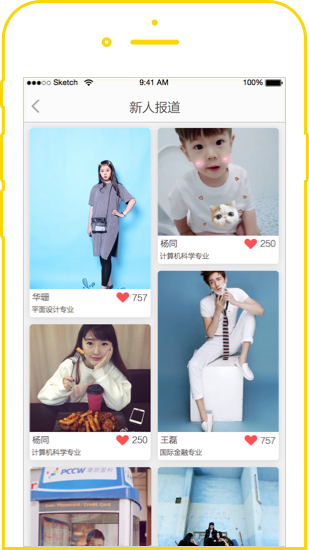
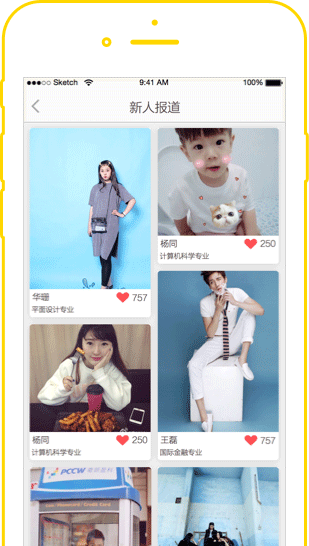
修改首页

diff --git a/public/css/style.min.css b/public/css/style.min.css
@@ -1,1 +1,1 @@
-body{margin:0}header{background-color:#fbd600;padding:10px;height:700px;position:relative;}header .nav{width:400px;text-align:center;margin:0 auto;}header .nav:before{content:"";display:table}header .nav:after{content:"";display:table;clear:both}header .nav li{list-style:none;float:left;width:99px;border-right:1px solid #000;}header .nav li a{text-decoration:none;color:#000}header .nav li:last-child{width:100px;border-right:none}header .img{position:absolute;}header .img.phone{bottom:0;left:50%}header .img.logo{left:25%;top:10%;animation:left2right3 1s;-moz-animation:left2right3 1s;-webkit-animation:left2right3 1s;-o-animation:left2right3 1s}header .img.slogan{left:25%;top:35%;animation:left2right3 1s;-moz-animation:left2right3 1s;-webkit-animation:left2right3 1s;-o-animation:left2right3 1s}header .download{position:absolute;left:25%;bottom:20px;width:320px;height:125px;animation:bottom2top 1s;-moz-animation:bottom2top 1s;-webkit-animation:bottom2top 1s;-o-animation:bottom2top 1s;}header .download .qrcode{width:125px;height:125px}header .download .ios,header .download .android{width:180px;height:50px}header .download .ios{position:absolute;left:140px;top:0}header .download .android{position:absolute;left:140px;top:75px}footer{background-color:#fbd600;padding:30px 10px;text-align:center;}footer p{font-size:12px}footer .nav{width:400px;margin:0 auto;}footer .nav:before{content:"";display:table}footer .nav:after{content:"";display:table;clear:both}footer .nav li{list-style:none;float:left;width:99px;border-right:1px solid #000;}footer .nav li a{text-decoration:none;color:#000}footer .nav li:last-child{width:100px;border-right:none}.container >section{text-align:center;}.container >section h1{font-size:32px}.container >section p{font-size:22px}.container >section ul{width:300px;line-height:20px;margin:0 auto;font-size:18px;text-align:left;margin-bottom:30px;color:#fbd600;}.container >section ul li .content{font-size:12px;color:#000}.container >section.new_student img.img{width:20%;}.container >section.new_student img.img.left{position:relative;bottom:90px;left:15px;animation:left2right 1s;-moz-animation:left2right 1s;-webkit-animation:left2right 1s;-o-animation:left2right 1s}.container >section.new_student img.img.right{position:relative;bottom:70px;right:25px;animation:right2left 1s;-moz-animation:right2left 1s;-webkit-animation:right2left 1s;-o-animation:right2left 1s}.container >section.team{position:relative;}.container >section.team img.img{position:absolute;}.container >section.team img.img.left1{top:160px;left:50%;margin-left:-550px;animation:left2right2 1s;-moz-animation:left2right2 1s;-webkit-animation:left2right2 1s;-o-animation:left2right2 1s}.container >section.team img.img.left2{top:247px;left:50%;margin-left:-543px;animation:scalebig 1s;-moz-animation:scalebig 1s;-webkit-animation:scalebig 1s;-o-animation:scalebig 1s}.container >section.team img.img.right1{top:400px;right:50%;margin-right:-570px;animation:right2left2 1s;-moz-animation:right2left2 1s;-webkit-animation:right2left2 1s;-o-animation:right2left2 1s}.container >section.team img.img.right2{top:450px;right:50%;margin-right:-430px;animation:scalebig 1s;-moz-animation:scalebig 1s;-webkit-animation:scalebig 1s;-o-animation:scalebig 1s}.container >section.rank{position:relative;}.container >section.rank img.center1{position:absolute;left:50%;margin-left:-294px;top:160px;animation:rotate 1s;-moz-animation:rotate 1s;-webkit-animation:rotate 1s;-o-animation:rotate 1s}.container >section.question img.img{width:20%;}.container >section.question img.img.left{position:relative;bottom:100px;right:30px;animation:right2left 1s;-moz-animation:right2left 1s;-webkit-animation:right2left 1s;-o-animation:right2left 1s}.container >section.question img.img.right{position:relative;bottom:100px;left:30px;animation:left2right 1s;-moz-animation:left2right 1s;-webkit-animation:left2right 1s;-o-animation:left2right 1s}@-moz-keyframes bottom2top{from{bottom:-100px}to{bottom:20px}}@-webkit-keyframes bottom2top{from{bottom:-100px}to{bottom:20px}}@-o-keyframes bottom2top{from{bottom:-100px}to{bottom:20px}}@keyframes bottom2top{from{bottom:-100px}to{bottom:20px}}@-moz-keyframes left2right{from{left:-400px}to{left:15px}}@-webkit-keyframes left2right{from{left:-400px}to{left:15px}}@-o-keyframes left2right{from{left:-400px}to{left:15px}}@keyframes left2right{from{left:-400px}to{left:15px}}@-moz-keyframes right2left{from{right:-400px}to{right:25px}}@-webkit-keyframes right2left{from{right:-400px}to{right:25px}}@-o-keyframes right2left{from{right:-400px}to{right:25px}}@keyframes right2left{from{right:-400px}to{right:25px}}@-moz-keyframes left2right2{from{margin-left:-1000px}to{margin-left:-550px}}@-webkit-keyframes left2right2{from{margin-left:-1000px}to{margin-left:-550px}}@-o-keyframes left2right2{from{margin-left:-1000px}to{margin-left:-550px}}@keyframes left2right2{from{margin-left:-1000px}to{margin-left:-550px}}@-moz-keyframes right2left2{from{margin-right:-1000px}to{margin-right:-570px}}@-webkit-keyframes right2left2{from{margin-right:-1000px}to{margin-right:-570px}}@-o-keyframes right2left2{from{margin-right:-1000px}to{margin-right:-570px}}@keyframes right2left2{from{margin-right:-1000px}to{margin-right:-570px}}@-moz-keyframes left2right3{from{left:-10%}to{left:25%}}@-webkit-keyframes left2right3{from{left:-10%}to{left:25%}}@-o-keyframes left2right3{from{left:-10%}to{left:25%}}@keyframes left2right3{from{left:-10%}to{left:25%}}@-moz-keyframes rotate{from{transform:rotate(-30deg)}-ms-transform rotate(-30deg){-webkit-transform:rotate(-30deg);-o-transform:rotate(-30deg);-moz-transform:rotate(-30deg)}to{transform:rotate(0)}-ms-transform rotate(0){-webkit-transform:rotate(0);-o-transform:rotate(0);-moz-transform:rotate(0)}}@-webkit-keyframes rotate{from{transform:rotate(-30deg)}-ms-transform rotate(-30deg){-webkit-transform:rotate(-30deg);-o-transform:rotate(-30deg);-moz-transform:rotate(-30deg)}to{transform:rotate(0)}-ms-transform rotate(0){-webkit-transform:rotate(0);-o-transform:rotate(0);-moz-transform:rotate(0)}}@-o-keyframes rotate{from{transform:rotate(-30deg)}-ms-transform rotate(-30deg){-webkit-transform:rotate(-30deg);-o-transform:rotate(-30deg);-moz-transform:rotate(-30deg)}to{transform:rotate(0)}-ms-transform rotate(0){-webkit-transform:rotate(0);-o-transform:rotate(0);-moz-transform:rotate(0)}}@keyframes rotate{from{transform:rotate(-30deg)}-ms-transform rotate(-30deg){-webkit-transform:rotate(-30deg);-o-transform:rotate(-30deg);-moz-transform:rotate(-30deg)}to{transform:rotate(0)}-ms-transform rotate(0){-webkit-transform:rotate(0);-o-transform:rotate(0);-moz-transform:rotate(0)}}@-moz-keyframes scalebig{from{transform:scale(.1);-ms-transform:scale(.1);-webkit-transform:scale(.1);-o-transform:scale(.1);-moz-transform:scale(.1)}to{transform:scale(1);-ms-transform:scale(1);-webkit-transform:scale(1);-o-transform:scale(1);-moz-transform:scale(1)}}@-webkit-keyframes scalebig{from{transform:scale(.1);-ms-transform:scale(.1);-webkit-transform:scale(.1);-o-transform:scale(.1);-moz-transform:scale(.1)}to{transform:scale(1);-ms-transform:scale(1);-webkit-transform:scale(1);-o-transform:scale(1);-moz-transform:scale(1)}}@-o-keyframes scalebig{from{transform:scale(.1);-ms-transform:scale(.1);-webkit-transform:scale(.1);-o-transform:scale(.1);-moz-transform:scale(.1)}to{transform:scale(1);-ms-transform:scale(1);-webkit-transform:scale(1);-o-transform:scale(1);-moz-transform:scale(1)}}@keyframes scalebig{from{transform:scale(.1);-ms-transform:scale(.1);-webkit-transform:scale(.1);-o-transform:scale(.1);-moz-transform:scale(.1)}to{transform:scale(1);-ms-transform:scale(1);-webkit-transform:scale(1);-o-transform:scale(1);-moz-transform:scale(1)}}
+body{margin:0}header{background-color:#fbd600;padding:10px;height:700px;position:relative;}header .nav{width:400px;text-align:center;margin:0 auto;}header .nav:before{content:"";display:table}header .nav:after{content:"";display:table;clear:both}header .nav li{list-style:none;float:left;width:99px;border-right:1px solid #000;}header .nav li a{text-decoration:none;color:#000}header .nav li:last-child{width:100px;border-right:none}header .img{position:absolute;}header .img.phone{bottom:0;left:50%}header .img.logo{left:25%;top:10%;animation:left2right3 1s;-moz-animation:left2right3 1s;-webkit-animation:left2right3 1s;-o-animation:left2right3 1s}header .img.slogan{left:25%;top:35%;animation:left2right3 1s;-moz-animation:left2right3 1s;-webkit-animation:left2right3 1s;-o-animation:left2right3 1s}header .download{position:absolute;left:25%;bottom:20px;width:320px;height:125px;animation:bottom2top 1s;-moz-animation:bottom2top 1s;-webkit-animation:bottom2top 1s;-o-animation:bottom2top 1s;}header .download .qrcode{width:125px;height:125px}header .download .ios,header .download .android{width:180px;height:50px}header .download .ios{position:absolute;left:140px;top:0}header .download .android{position:absolute;left:140px;top:75px}footer{background-color:#fbd600;padding:30px 10px;text-align:center;}footer p{font-size:12px}footer .nav{width:400px;margin:0 auto;}footer .nav:before{content:"";display:table}footer .nav:after{content:"";display:table;clear:both}footer .nav li{list-style:none;float:left;width:99px;border-right:1px solid #000;}footer .nav li a{text-decoration:none;color:#000}footer .nav li:last-child{width:100px;border-right:none}.container >section{text-align:center;background:-webkit-linear-gradient(top,#fff,#fff 95%,#f8f8f8);background:-moz-linear-gradient(top,#fff,#fff 95%,#f8f8f8);background:-o-linear-gradient(top,#fff,#fff 95%,#f8f8f8);background:-ms-linear-gradient(top,#fff,#fff 95%,#f8f8f8);background:linear-gradient(to bottom,#fff,#fff 95%,#f8f8f8);}.container >section h1{font-size:32px}.container >section p{font-size:22px}.container >section ul{width:300px;line-height:20px;margin:0 auto;font-size:18px;text-align:left;margin-bottom:30px;color:#fbd600;}.container >section ul li .content{font-size:12px;color:#000}.container >section.new_student img.img{width:20%;}.container >section.new_student img.img.left{position:relative;bottom:90px;left:15px;animation:left2right 1s;-moz-animation:left2right 1s;-webkit-animation:left2right 1s;-o-animation:left2right 1s}.container >section.new_student img.img.right{position:relative;bottom:70px;right:25px;animation:right2left 1s;-moz-animation:right2left 1s;-webkit-animation:right2left 1s;-o-animation:right2left 1s}.container >section.team{position:relative;}.container >section.team img.img{position:absolute;}.container >section.team img.img.left1{top:160px;left:50%;margin-left:-550px;animation:left2right2 1s;-moz-animation:left2right2 1s;-webkit-animation:left2right2 1s;-o-animation:left2right2 1s}.container >section.team img.img.left2{top:247px;left:50%;margin-left:-543px;animation:scalebig 1s;-moz-animation:scalebig 1s;-webkit-animation:scalebig 1s;-o-animation:scalebig 1s}.container >section.team img.img.right1{top:400px;right:50%;margin-right:-570px;animation:right2left2 1s;-moz-animation:right2left2 1s;-webkit-animation:right2left2 1s;-o-animation:right2left2 1s}.container >section.team img.img.right2{top:450px;right:50%;margin-right:-430px;animation:scalebig 1s;-moz-animation:scalebig 1s;-webkit-animation:scalebig 1s;-o-animation:scalebig 1s}.container >section.rank{position:relative;}.container >section.rank img.center1{position:absolute;left:50%;margin-left:-294px;top:160px;animation:rotate 1s;-moz-animation:rotate 1s;-webkit-animation:rotate 1s;-o-animation:rotate 1s}.container >section.question img.img{width:20%;}.container >section.question img.img.left{position:relative;bottom:100px;right:30px;animation:right2left 1s;-moz-animation:right2left 1s;-webkit-animation:right2left 1s;-o-animation:right2left 1s}.container >section.question img.img.right{position:relative;bottom:100px;left:30px;animation:left2right 1s;-moz-animation:left2right 1s;-webkit-animation:left2right 1s;-o-animation:left2right 1s}@-moz-keyframes bottom2top{from{bottom:-100px}to{bottom:20px}}@-webkit-keyframes bottom2top{from{bottom:-100px}to{bottom:20px}}@-o-keyframes bottom2top{from{bottom:-100px}to{bottom:20px}}@keyframes bottom2top{from{bottom:-100px}to{bottom:20px}}@-moz-keyframes left2right{from{left:-400px}to{left:15px}}@-webkit-keyframes left2right{from{left:-400px}to{left:15px}}@-o-keyframes left2right{from{left:-400px}to{left:15px}}@keyframes left2right{from{left:-400px}to{left:15px}}@-moz-keyframes right2left{from{right:-400px}to{right:25px}}@-webkit-keyframes right2left{from{right:-400px}to{right:25px}}@-o-keyframes right2left{from{right:-400px}to{right:25px}}@keyframes right2left{from{right:-400px}to{right:25px}}@-moz-keyframes left2right2{from{margin-left:-1000px}to{margin-left:-550px}}@-webkit-keyframes left2right2{from{margin-left:-1000px}to{margin-left:-550px}}@-o-keyframes left2right2{from{margin-left:-1000px}to{margin-left:-550px}}@keyframes left2right2{from{margin-left:-1000px}to{margin-left:-550px}}@-moz-keyframes right2left2{from{margin-right:-1000px}to{margin-right:-570px}}@-webkit-keyframes right2left2{from{margin-right:-1000px}to{margin-right:-570px}}@-o-keyframes right2left2{from{margin-right:-1000px}to{margin-right:-570px}}@keyframes right2left2{from{margin-right:-1000px}to{margin-right:-570px}}@-moz-keyframes left2right3{from{left:-10%}to{left:25%}}@-webkit-keyframes left2right3{from{left:-10%}to{left:25%}}@-o-keyframes left2right3{from{left:-10%}to{left:25%}}@keyframes left2right3{from{left:-10%}to{left:25%}}@-moz-keyframes rotate{from{transform:rotate(-30deg)}-ms-transform rotate(-30deg){-webkit-transform:rotate(-30deg);-o-transform:rotate(-30deg);-moz-transform:rotate(-30deg)}to{transform:rotate(0)}-ms-transform rotate(0){-webkit-transform:rotate(0);-o-transform:rotate(0);-moz-transform:rotate(0)}}@-webkit-keyframes rotate{from{transform:rotate(-30deg)}-ms-transform rotate(-30deg){-webkit-transform:rotate(-30deg);-o-transform:rotate(-30deg);-moz-transform:rotate(-30deg)}to{transform:rotate(0)}-ms-transform rotate(0){-webkit-transform:rotate(0);-o-transform:rotate(0);-moz-transform:rotate(0)}}@-o-keyframes rotate{from{transform:rotate(-30deg)}-ms-transform rotate(-30deg){-webkit-transform:rotate(-30deg);-o-transform:rotate(-30deg);-moz-transform:rotate(-30deg)}to{transform:rotate(0)}-ms-transform rotate(0){-webkit-transform:rotate(0);-o-transform:rotate(0);-moz-transform:rotate(0)}}@keyframes rotate{from{transform:rotate(-30deg)}-ms-transform rotate(-30deg){-webkit-transform:rotate(-30deg);-o-transform:rotate(-30deg);-moz-transform:rotate(-30deg)}to{transform:rotate(0)}-ms-transform rotate(0){-webkit-transform:rotate(0);-o-transform:rotate(0);-moz-transform:rotate(0)}}@-moz-keyframes scalebig{from{transform:scale(.1);-ms-transform:scale(.1);-webkit-transform:scale(.1);-o-transform:scale(.1);-moz-transform:scale(.1)}to{transform:scale(1);-ms-transform:scale(1);-webkit-transform:scale(1);-o-transform:scale(1);-moz-transform:scale(1)}}@-webkit-keyframes scalebig{from{transform:scale(.1);-ms-transform:scale(.1);-webkit-transform:scale(.1);-o-transform:scale(.1);-moz-transform:scale(.1)}to{transform:scale(1);-ms-transform:scale(1);-webkit-transform:scale(1);-o-transform:scale(1);-moz-transform:scale(1)}}@-o-keyframes scalebig{from{transform:scale(.1);-ms-transform:scale(.1);-webkit-transform:scale(.1);-o-transform:scale(.1);-moz-transform:scale(.1)}to{transform:scale(1);-ms-transform:scale(1);-webkit-transform:scale(1);-o-transform:scale(1);-moz-transform:scale(1)}}@keyframes scalebig{from{transform:scale(.1);-ms-transform:scale(.1);-webkit-transform:scale(.1);-o-transform:scale(.1);-moz-transform:scale(.1)}to{transform:scale(1);-ms-transform:scale(1);-webkit-transform:scale(1);-o-transform:scale(1);-moz-transform:scale(1)}}
